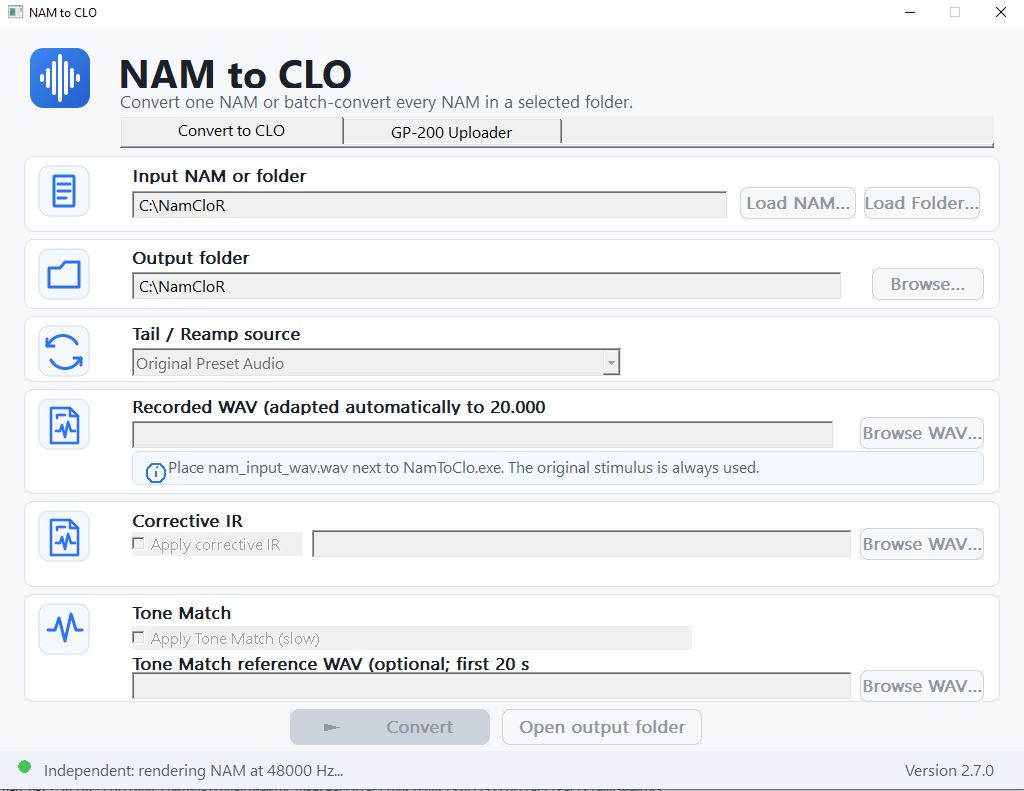
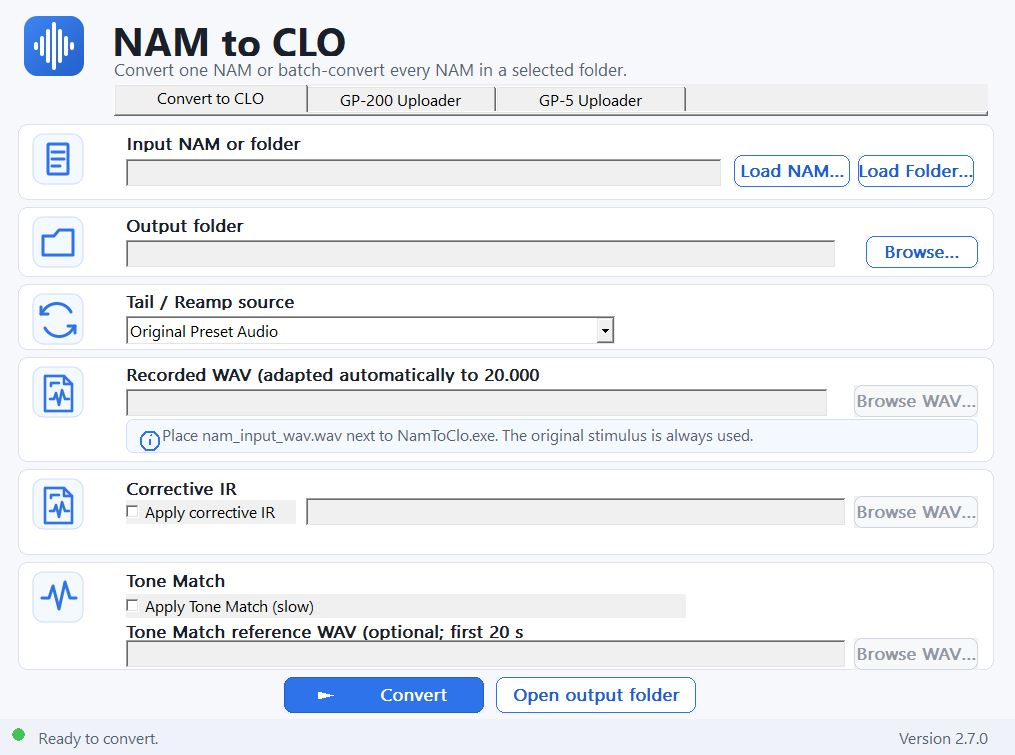
Test release

diff --git a/README.md b/README.md
@@ -6,7 +6,13 @@ The application has three tabs:
 
 - **Convert to CLO** — convert one NAM model or every NAM model in a folder.
 - **GP-200 Uploader** — upload an existing `.clo` file to one of the 10 GP-200 SnapTone slots.
-- **GP-5 Uploader** — adapt a compatible CLO to the GP-5 transfer format and upload it to SnapTone 51-80.
+- **GP-5 Uploader** — adapt a compatible CLO in memory to the GP-5 runtime format and upload it to **SnapTone 51-80**.
+
+### GP-5 support in this release
+
+GP-5 upload support was reconstructed from USB-MIDI captures of Valeton Suite and validated by successful physical uploads to a GP-5.
+
+The current implementation intentionally exposes only **SnapTone 51-80**, the range validated during reverse engineering. The source CLO is never modified on disk: the GP-5 representation is created in memory immediately before transfer.
 
 > This is an independent research/reimplementation project and is not affiliated with or endorsed by Valeton or Hotone.
 
@@ -213,39 +219,167 @@ Press **Upload to GP-200**. The transfer progress bar and bottom status line sho
 
 ## GP-5 Uploader
 
-The GP-5 uploader implements the USB-MIDI transfer reconstructed from Valeton Suite captures. It accepts compatible VTSI/HTSI CLO files containing **A=128** and at least **512 B taps**. This includes the 1024-tap CLO files produced by the current converter and 2048-tap Valeton/Hotone CLO files.
+The **GP-5 Uploader** sends compatible CLO files directly to a Valeton GP-5 through USB MIDI.
+
+The implementation was reconstructed from Valeton Suite traffic and then validated with successful uploads to a physical GP-5. It does **not** emulate Valeton Suite; it implements only the subset of the protocol required to upload a SnapTone.
+
+### Supported destination range
+
+The current release allows uploads only to:
+
+```text
+SnapTone 51
+...
+SnapTone 80
+```
+
+This is deliberate. SnapTone 51 and SnapTone 80 were captured and validated during reverse engineering, and the uploader is restricted to the validated range.
+
+Internally the GP-5 uses zero-based slot numbering:
+
+```text
+SnapTone 51 -> 0x32
+SnapTone 80 -> 0x4F
+```
+
+Attempts to upload outside this range are rejected by the application, not only hidden from the user interface.
+
+### Compatible CLO files
+
+The uploader accepts compatible **VTSI** or **HTSI** CLO files with:
+
+```text
+FIR A = 128 taps
+FIR B = at least 512 taps
+```
+
+This includes:
+
+- the **B1024 GP-200 CLO** generated by NamToClo;
+- compatible **B2048 Valeton/Hotone/Ampero CLO** files.
+
+For GP-5 transfer, the uploader uses the first 512 taps of FIR B. The original CLO file on disk is not changed.
 
 ### 1. Connect the GP-5
 
-Connect and power on the GP-5, open the **GP-5 Uploader** tab, and press **Rescan** if the MIDI device was connected after the application started.
+1. Connect the GP-5 to the computer through USB.
+2. Power it on.
+3. Open the **GP-5 Uploader** tab.
+4. Confirm that the MIDI device is detected.
+5. If the GP-5 was connected after NamToClo was opened, press **Rescan**.
+
+Both MIDI input and MIDI output are required because the uploader waits for a device acknowledgement after every transfer block.
 
 ### 2. Select the CLO
 
-Press **Browse CLO...** or drag a `.clo` file onto the application while the GP-5 tab is active. The source file is not modified.
+Press **Browse CLO...** and select the file to upload.
 
-Before transfer, the uploader creates the GP-5 runtime representation in memory:
+You can also drag a `.clo` file onto the application while the **GP-5 Uploader** tab is active.
+
+The selected source is adapted **in memory** immediately before transfer.
+
+### 3. GP-5 CLO adaptation
+
+The GP-5 transfer representation reconstructed from Valeton Suite uses:
 
 ```text
-VTSI
-A = 128 taps
-B = first 512 taps
-declared size = 0x0A88
-payload size  = 0x0A00
+Magic          VTSI
+FIR A          128 taps
+FIR B          first 512 taps
+Declared size  0x0A88
+Payload size   0x0A00
 ```
 
-The internal CLO CRC16/MODBUS is recalculated automatically.
+The uploader updates the CLO layout fields and recalculates the internal **CRC16/MODBUS** automatically.
 
-### 3. Select SnapTone 51-80
+The compact CLO is then preceded by a reconstructed **74-byte SnapTone wrapper** containing the destination slot and name.
 
-Choose a destination from SnapTone 51 to SnapTone 80. This is the range validated from Valeton Suite captures. The protocol is zero-based, so visible SnapTone 51 maps to slot byte `0x32` and visible SnapTone 80 maps to `0x4F`.
+The complete transfer payload is:
 
-### 4. Upload
+```text
+74-byte GP-5 wrapper
++
+0x0A88-byte compact CLO
+=
+2770 bytes
+```
 
-Press **Upload to GP-5**. The uploader wraps the compact CLO in the reconstructed 74-byte GP-5 SnapTone header, splits the 2770-byte transfer into 146 command-`0x92` blocks, calculates the packet CRC8, nibble-encodes each SysEx message, and waits for the GP-5 ACK before advancing to the next block.
+### 4. Transfer protocol
 
-The progress bar reaches 146 blocks and the application then waits for the final GP-5 completion message. A block is retried automatically if its ACK is not received within the timeout.
+The 2770-byte payload is divided into **146 blocks**:
 
-> The GP-5 upload implementation is based on USB-MIDI captures of Valeton Suite uploads to SnapTone 51 and SnapTone 80. It intentionally implements only the transfer required for SnapTone upload; it does not reproduce the full Valeton Suite startup/state synchronization.
+```text
+145 blocks x 19 bytes
+1 final block x 15 bytes
+```
+
+Each block is sent using decoded command:
+
+```text
+0x92
+```
+
+The packet body is:
+
+```text
+[CRC8]
+[0x92]
+[sequence]
+[payload length]
+[payload]
+```
+
+The packet CRC is **CRC-8 polynomial 0x07**, initial value `0x00`, MSB-first.
+
+Before transmission, every decoded byte is converted to two 4-bit nibbles and wrapped as MIDI SysEx:
+
+```text
+0xAB -> 0x0A 0x0B
+```
+
+### 5. ACK and retry handling
+
+After each `0x92` block, the uploader waits for the GP-5 acknowledgement:
+
+```text
+B2 01 00 03 14 08 00
+```
+
+Only after that ACK is received does the uploader continue with the next block.
+
+If the ACK is not received in time, the same sequence block is retried automatically. The transfer is aborted after the retry limit is reached.
+
+This ACK-driven transfer avoids relying on long fixed delays between blocks.
+
+### 6. Final completion
+
+After the final block, the uploader waits for the GP-5 completion notification observed in the captured transfers:
+
+```text
+CE 01 00 06 12 1B 03 00 00 00
+```
+
+When this message is received, the upload is reported as successfully completed.
+
+### Confirmed vs inferred protocol details
+
+**Confirmed from captures and physical testing:**
+
+- command `0x92` carries the SnapTone transfer blocks;
+- 19-byte block payloads are used, with a shorter final block;
+- each block is acknowledged by `B2 01 00 03 14 08 00`;
+- the packet uses CRC-8 polynomial `0x07`;
+- SysEx data is nibble-encoded;
+- the GP-5 runtime CLO uses A128/B512;
+- SnapTone 51 maps to `0x32`;
+- SnapTone 80 maps to `0x4F`;
+- the complete uploader works on physical GP-5 hardware.
+
+**Strongly supported by the captures:**
+
+- `CE 01 00 06 12 1B 03 00 00 00` is the post-transfer completion notification.
+
+The application intentionally does **not** reproduce the complete Valeton Suite startup and state synchronization because the captured uploads begin the SnapTone transfer directly with command `0x92`. Only the protocol needed for the upload is implemented.
 
 ---
 
@@ -259,6 +393,8 @@ nam_input_wav.wav
 ```
 
 No external runtime folder is required for the Convert to CLO tab.
+
+GP-200 and GP-5 upload support is built into the executable; no separate MIDI runtime or Valeton Suite installation is required.
 
 ---
 
